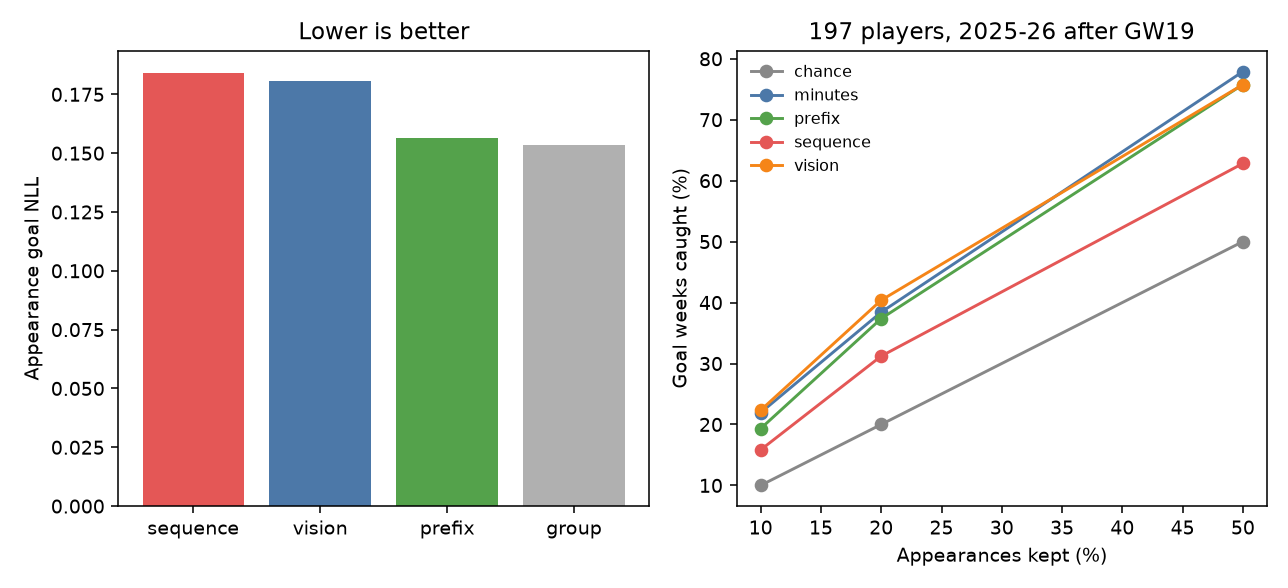
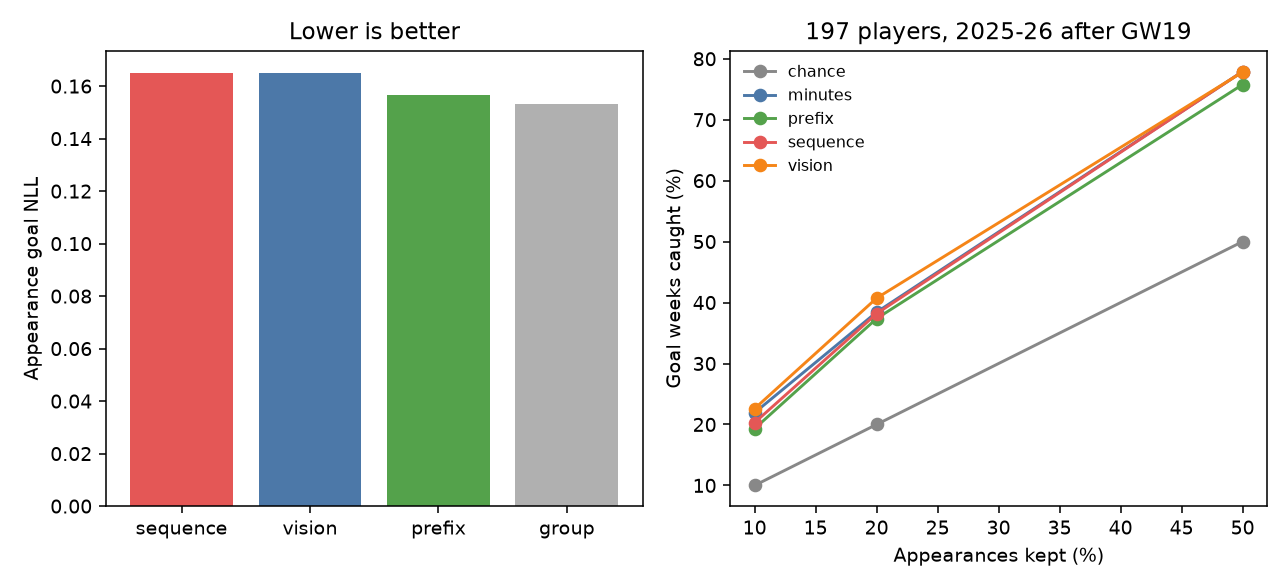
Let position, the player, and the match-up set the goal rate.
Remove the blank forced onto goalkeeper rows. The goal and assist heads now learn a position term that scales with minutes, alongside the player's own chart and the match-up header.

diff --git a/src/models/flashcard_squad_trial.py b/src/models/flashcard_squad_trial.py
@@ -385,11 +385,29 @@ class Coupler(nn.Module):
         self.norm_col = nn.LayerNorm(D)
         self.goal = nn.Linear(D, 4)
         self.assist = nn.Linear(D, 4)
+        self.skip_goal = nn.Linear(D, 4)
+        self.skip_assist = nn.Linear(D, 4)
+        self.pos_goal = nn.Embedding(5, 4)
+        self.pos_assist = nn.Embedding(5, 4)
+        self.pos_goal_min = nn.Embedding(5, 4)
+        self.pos_assist_min = nn.Embedding(5, 4)
         self.col_pos = nn.Parameter(torch.zeros(1, 1, COLS, D))
         nn.init.normal_(self.col_pos, std=0.02)
+        for layer in (
+            self.skip_goal, self.skip_assist,
+        ):
+            nn.init.zeros_(layer.weight)
+            nn.init.zeros_(layer.bias)
+        for table in (self.pos_goal, self.pos_assist, self.pos_goal_min, self.pos_assist_min):
+            nn.init.zeros_(table.weight)
 
     def forward(
-        self, cells: torch.Tensor, row_pad: torch.Tensor, col_pad: torch.Tensor
+        self,
+        cells: torch.Tensor,
+        row_pad: torch.Tensor,
+        col_pad: torch.Tensor,
+        position: torch.Tensor,
+        minutes: torch.Tensor,
     ) -> tuple[torch.Tensor, torch.Tensor]:
         batch, _rows, cols, _dim = cells.shape
         hidden = self.norm_row(cells + self.col_pos[:, :, :cols])
@@ -402,7 +420,21 @@ class Coupler(nn.Module):
         mixed, _ = self.col(col_view, col_view, col_view, key_padding_mask=col_mask, need_weights=False)
         col_view = self.norm_col(col_view + mixed)
         out = col_view.reshape(batch, ROWS, cols, D)
-        return self.goal(out), self.assist(out)
+        pos = torch.where(position < 0, torch.full_like(position, 4), position)
+        played = (minutes / 90.0).unsqueeze(-1)
+        goal = (
+            self.goal(out)
+            + self.skip_goal(cells)
+            + self.pos_goal(pos)[:, :, None, :]
+            + self.pos_goal_min(pos)[:, :, None, :] * played
+        )
+        assist = (
+            self.assist(out)
+            + self.skip_assist(cells)
+            + self.pos_assist(pos)[:, :, None, :]
+            + self.pos_assist_min(pos)[:, :, None, :] * played
+        )
+        return goal, assist
 
 
 class SquadSequence(nn.Module):
@@ -430,7 +462,9 @@ class SquadSequence(nn.Module):
             )
         )
         cells = cells + header[:, None, :, :]
-        return self.couple(cells, batch["row_pad"], batch["column_on"] < 0.5)
+        return self.couple(
+            cells, batch["row_pad"], batch["column_on"] < 0.5, batch["position"], batch["minutes"]
+        )
 
 
 class SquadVision(nn.Module):
@@ -441,14 +475,21 @@ class SquadVision(nn.Module):
         self.patch = nn.Linear(3 * PLAYER_H * CELL_W, D)
         self.couple = Coupler(dropout)
 
-    def forward(self, images: torch.Tensor, row_pad: torch.Tensor, column_on: torch.Tensor) -> tuple[torch.Tensor, torch.Tensor]:
+    def forward(
+        self,
+        images: torch.Tensor,
+        row_pad: torch.Tensor,
+        column_on: torch.Tensor,
+        position: torch.Tensor,
+        minutes: torch.Tensor,
+    ) -> tuple[torch.Tensor, torch.Tensor]:
         batch = images.shape[0]
         blocks = images.reshape(batch, 3, ROWS + 1, PLAYER_H, COLS, CELL_W)
         blocks = blocks.permute(0, 4, 2, 1, 3, 5).reshape(batch, COLS, ROWS + 1, -1)
         tokens = self.patch(blocks)
         header = tokens[:, :, 0, :]
         cells = tokens[:, :, 1:, :].permute(0, 2, 1, 3) + header[:, None, :, :]
-        return self.couple(cells, row_pad, column_on < 0.5)
+        return self.couple(cells, row_pad, column_on < 0.5, position, minutes)
 
 
 def _stack(views: list[dict[str, np.ndarray]]) -> dict[str, torch.Tensor]:
@@ -507,7 +548,9 @@ def train_model(
             batch = _stack([apply_cut(card, league, cut) for card, cut in zip(pick, cuts, strict=True)])
             opt.zero_grad()
             if kind == "vision":
-                goal_logits, assist_logits = model(batch["image"], batch["row_pad"], batch["column_on"])
+                goal_logits, assist_logits = model(
+                    batch["image"], batch["row_pad"], batch["column_on"], batch["position"], batch["minutes"]
+                )
             else:
                 goal_logits, assist_logits = model(batch)
             mask = batch["loss"]
@@ -536,7 +579,9 @@ def predict(
         pick = cards[start : start + BATCH]
         batch = _stack([apply_cut(card, league, cut_gw) for card in pick])
         if kind == "vision":
-            goal_logits, assist_logits = model(batch["image"], batch["row_pad"], batch["column_on"])
+            goal_logits, assist_logits = model(
+                batch["image"], batch["row_pad"], batch["column_on"], batch["position"], batch["minutes"]
+            )
         else:
             goal_logits, assist_logits = model(batch)
         goals[start : start + len(pick)] = F.softmax(goal_logits, dim=-1).numpy()
@@ -712,6 +757,26 @@ def appearance_hit_rate(
     return {"players": len(rows), "base": base, "top10": float(np.mean(chosen)) if chosen else 0.0}
 
 
+def positive_by_position(
+    probs: np.ndarray, cards: list[SquadCard], cut_gw: int
+) -> list[float]:
+    """Mean probability of a bar, by position, on hidden appearances."""
+    totals = np.zeros(4)
+    counts = np.zeros(4)
+    for index, card in enumerate(cards):
+        hidden = (card.gw > cut_gw) & (card.gw > 0)
+        for row in range(card.n_players):
+            pos = int(card.position[row])
+            if pos < 0:
+                continue
+            cols = np.where(card.present[row] & hidden)[0]
+            if len(cols) == 0:
+                continue
+            totals[pos] += float((1.0 - probs[index, row, cols, 0]).sum())
+            counts[pos] += len(cols)
+    return (totals / np.maximum(counts, 1.0)).tolist()
+
+
 def sample_bars(probs: np.ndarray, rng: np.random.Generator) -> np.ndarray:
     """Draw one bar height per cell from the class probabilities."""
     flat = np.asarray(probs, dtype=np.float64).reshape(-1, probs.shape[-1])
@@ -823,6 +888,15 @@ def write_report(payload: dict[str, object], path) -> None:
         "",
         "## Readers",
         "",
+        "Position, the player's own minutes and visible bars, and the match-up header",
+        "each have a learned effect on the goal and assist heads.",
+        (
+            "Learned vision probability of a goal bar on a hidden appearance: "
+            f"goalkeeper {payload['role_rate']['goal'][0]:.1%}, "
+            f"defender {payload['role_rate']['goal'][1]:.1%}, "
+            f"midfielder {payload['role_rate']['goal'][2]:.1%}, "
+            f"forward {payload['role_rate']['goal'][3]:.1%}."
+        ),
         "Sequence: the minute count, presence, position, and the visible bars as tokens.",
         "Vision: the same grid painted in pixels. Minutes use sixteen pixels, with no",
         "60-minute step, plus a position color and an eight-pixel opponent conceded bar.",
@@ -1037,6 +1111,10 @@ def main() -> None:
     )
     example_card = test[example_index]
     example_hidden = (example_card.gw > CUT_GW) & (example_card.gw > 0)
+    role_rate = {
+        "goal": positive_by_position(vis_g, test, CUT_GW),
+        "assist": positive_by_position(vis_a, test, CUT_GW),
+    }
     example_draw = np.random.default_rng(SEED)
     goal_drawn = sample_bars(vis_g[example_index], example_draw)
     assist_drawn = sample_bars(vis_a[example_index], example_draw)
@@ -1058,6 +1136,7 @@ def main() -> None:
         "hit_rate": hit_rate,
         "bars": bars,
         "bar_example": bar_example,
+        "role_rate": role_rate,
     }
     ROOT_PROCESSED.mkdir(parents=True, exist_ok=True)
     ROOT_REPORTS.mkdir(parents=True, exist_ok=True)

diff --git a/tests/test_flashcard_squad_trial.py b/tests/test_flashcard_squad_trial.py
@@ -23,6 +23,7 @@ from src.models.flashcard_squad_trial import (
     ROWS,
     SquadCard,
     SquadSequence,
+    POS,
     SquadVision,
     apply_cut,
     bar_correspondence,
@@ -174,7 +175,9 @@ class SquadCutTests(unittest.TestCase):
         self.assertFalse(np.array_equal(concede[:, 0:CELL_W], concede[:, CELL_W : 2 * CELL_W]))
         torch.manual_seed(0)
         batch = _one(view)
-        goals, assists = SquadVision(dropout=0.0)(batch["image"], batch["row_pad"], batch["column_on"])
+        goals, assists = SquadVision(dropout=0.0)(
+            batch["image"], batch["row_pad"], batch["column_on"], batch["position"], batch["minutes"]
+        )
         self.assertEqual(tuple(goals.shape), (1, ROWS, COLS, 4))
         self.assertEqual(tuple(assists.shape), (1, ROWS, COLS, 4))
 
@@ -199,6 +202,53 @@ class SquadCutTests(unittest.TestCase):
         certain = np.zeros((2, 4))
         certain[:, 1] = 1.0
         self.assertTrue(np.all(sample_bars(certain, np.random.default_rng(0)) == 1))
+
+    def test_position_is_learned_for_a_goalkeeper_and_a_forward(self) -> None:
+        cards = [_role_card() for _ in range(8)]
+        league = {"toy": {"Opp": {"fixtures": [], "by_id": {}}}}
+        torch.manual_seed(0)
+        model = SquadSequence(dropout=0.0)
+        train_model(model, cards, league, np.random.default_rng(0), epochs=20, kind="sequence", lr=2e-3, batch_size=4)
+        model.eval()
+        with torch.no_grad():
+            logits, _ = model(_one(apply_cut(cards[0], league, 3)))
+        prob = torch.softmax(logits, dim=-1)[0]
+        hidden = np.where(cards[0].gw > 3)[0]
+        self.assertLess(float(prob[0, hidden, 1:].sum(-1).mean()), 0.2)
+        self.assertGreater(float(prob[1, hidden, 1:].sum(-1).mean()), 0.7)
+
+
+def _role_card() -> SquadCard:
+    """A goalkeeper never scores. A forward scores every week. Minutes match."""
+    n = 6
+    gw = np.zeros(COLS, dtype=np.int64)
+    gw[:n] = np.arange(1, n + 1)
+    minutes = np.zeros((ROWS, COLS), dtype=np.float32)
+    goals = np.zeros((ROWS, COLS), dtype=np.int64)
+    present = np.zeros((ROWS, COLS), dtype=bool)
+    minutes[:2, :n] = 90
+    present[:2, :n] = True
+    goals[1, :n] = 1
+    position = np.full(ROWS, -1, dtype=np.int64)
+    position[0] = POS["GKP"]
+    position[1] = POS["FWD"]
+    return SquadCard(
+        season="toy",
+        team="Home",
+        names=tuple(["Keeper", "Forward"] + ["spare"] * (ROWS - 2)),
+        position=position,
+        gw=gw,
+        kickoff=gw.copy(),
+        home=np.zeros(COLS, dtype=np.int64),
+        opponent=tuple([""] * COLS),
+        fixture_id=np.zeros(COLS, dtype=np.int64),
+        minutes=minutes,
+        goals=goals,
+        assists=np.zeros((ROWS, COLS), dtype=np.int64),
+        present=present,
+        n_players=2,
+        n_fixtures=n,
+    )
 
 
 def _coupled_card(rng: np.random.Generator) -> SquadCard:

diff --git a/reports/flashcard_squad_trial.md b/reports/flashcard_squad_trial.md
@@ -8,10 +8,13 @@ Cards: train 60, test 20. One card is a club-season.
 Grid: 40 players by 40 fixtures. Cut after gameweek 19 for every club.
 Minutes, venue, opponent goals conceded, and regulars-on-the-pitch stay visible.
 Goals and assists after the cut are hidden. The segment is predicted in one pass.
-Wall clock: 66 seconds on CPU.
+Wall clock: 65 seconds on CPU.
 
 ## Readers
 
+Position, the player's own minutes and visible bars, and the match-up header
+each have a learned effect on the goal and assist heads.
+Learned vision probability of a goal bar on a hidden appearance: goalkeeper 5.4%, defender 3.7%, midfielder 6.1%, forward 7.2%.
 Sequence: the minute count, presence, position, and the visible bars as tokens.
 Vision: the same grid painted in pixels. Minutes use sixteen pixels, with no
 60-minute step, plus a position color and an eight-pixel opponent conceded bar.
@@ -25,8 +28,8 @@ Every recorded appearance is included, at whatever minutes. Lower negative log-l
 
 | reader | goal nll | assist nll | goal P | goal rate | expected goals | actual goals |
 |---|---:|---:|---:|---:|---:|---:|
-| sequence | 0.184 | 0.184 | 0.056 | 0.045 | 34.77 | 25.05 |
-| vision | 0.181 | 0.176 | 0.062 | 0.045 | 39.24 | 25.05 |
+| sequence | 0.165 | 0.166 | 0.054 | 0.045 | 30.76 | 25.05 |
+| vision | 0.165 | 0.161 | 0.053 | 0.045 | 29.95 | 25.05 |
 | prefix | 0.157 | 0.159 | 0.048 | 0.045 | 27.39 | 25.05 |
 | group | 0.153 | 0.156 | 0.050 | 0.045 | 28.20 | 25.05 |
 
@@ -35,12 +38,12 @@ Every recorded appearance is included, at whatever minutes. Lower negative log-l
 Players with a goal and at least eight appearances after the cut: 197.
 An appearance is any recorded minutes, including a zero-minute bench row.
 A random appearance in that group is a goal 12.4% of the time.
-The vision model's top 10% of appearances are goals 22.8% of the time.
+The vision model's top 10% of appearances are goals 22.6% of the time.
 
 | rank by | top 10% | top 20% | top 50% |
 |---|---:|---:|---:|
-| sequence | 0.158 | 0.312 | 0.628 |
-| vision | 0.223 | 0.404 | 0.758 |
+| sequence | 0.203 | 0.382 | 0.779 |
+| vision | 0.226 | 0.407 | 0.778 |
 | prefix | 0.193 | 0.374 | 0.758 |
 | group | 0.200 | 0.378 | 0.758 |
 | minutes | 0.219 | 0.384 | 0.779 |
@@ -59,13 +62,13 @@ the appearances.
 
 | reader | channel | actual bars | drawn bars | covered | on a real week |
 |---|---|---:|---:|---:|---:|
-| vision | goals | 459 | 620.2 | 11.3% | 8.4% |
-| sequence | goals | 459 | 562.5 | 9.6% | 7.9% |
+| vision | goals | 459 | 533.6 | 12.3% | 10.6% |
+| sequence | goals | 459 | 545.8 | 14.6% | 12.3% |
 | prefix | goals | 459 | 489.8 | 17.0% | 15.9% |
 | group | goals | 459 | 501.9 | 15.9% | 14.5% |
 | random | goals | 459 | 459.0 | 20.4% | 20.4% |
-| vision | assists | 445 | 590.8 | 9.4% | 7.1% |
-| sequence | assists | 445 | 519.6 | 8.2% | 7.0% |
+| vision | assists | 445 | 496.4 | 10.7% | 9.6% |
+| sequence | assists | 445 | 512.2 | 10.9% | 9.4% |
 | prefix | assists | 445 | 443.6 | 11.6% | 11.6% |
 | group | assists | 445 | 453.7 | 10.4% | 10.2% |
 | random | assists | 445 | 445.0 | 15.1% | 15.1% |

diff --git a/reports/goal_hit_log.md b/reports/goal_hit_log.md
@@ -55,3 +55,5 @@ A bar is an appearance with at least one goal or assist. The window is every clu
 | 7 Nov 2026, 23:15 | prefix rate, strength 8 | assists | 445 | 443.6 | 11.6% | 11.6% |
 | 7 Nov 2026, 23:15 | group rate | assists | 445 | 453.7 | 10.4% | 10.2% |
 | 7 Nov 2026, 23:15 | same count, random weeks | assists | 445 | 445.0 | 15.1% | 15.1% |
+
+The 23:33 run gives the goal and assist heads a learned position term, the player's own minutes and visible bars, and the match-up header. Nothing is removed for goalkeepers. Vision's probability of a goal bar on a hidden appearance is 5.4% for a goalkeeper and 7.2% for a forward. Drawn goal bars: 533.6 against 459 actual, 12.3% of actual bars covered, 10.6% of drawn bars on a real goal week.
